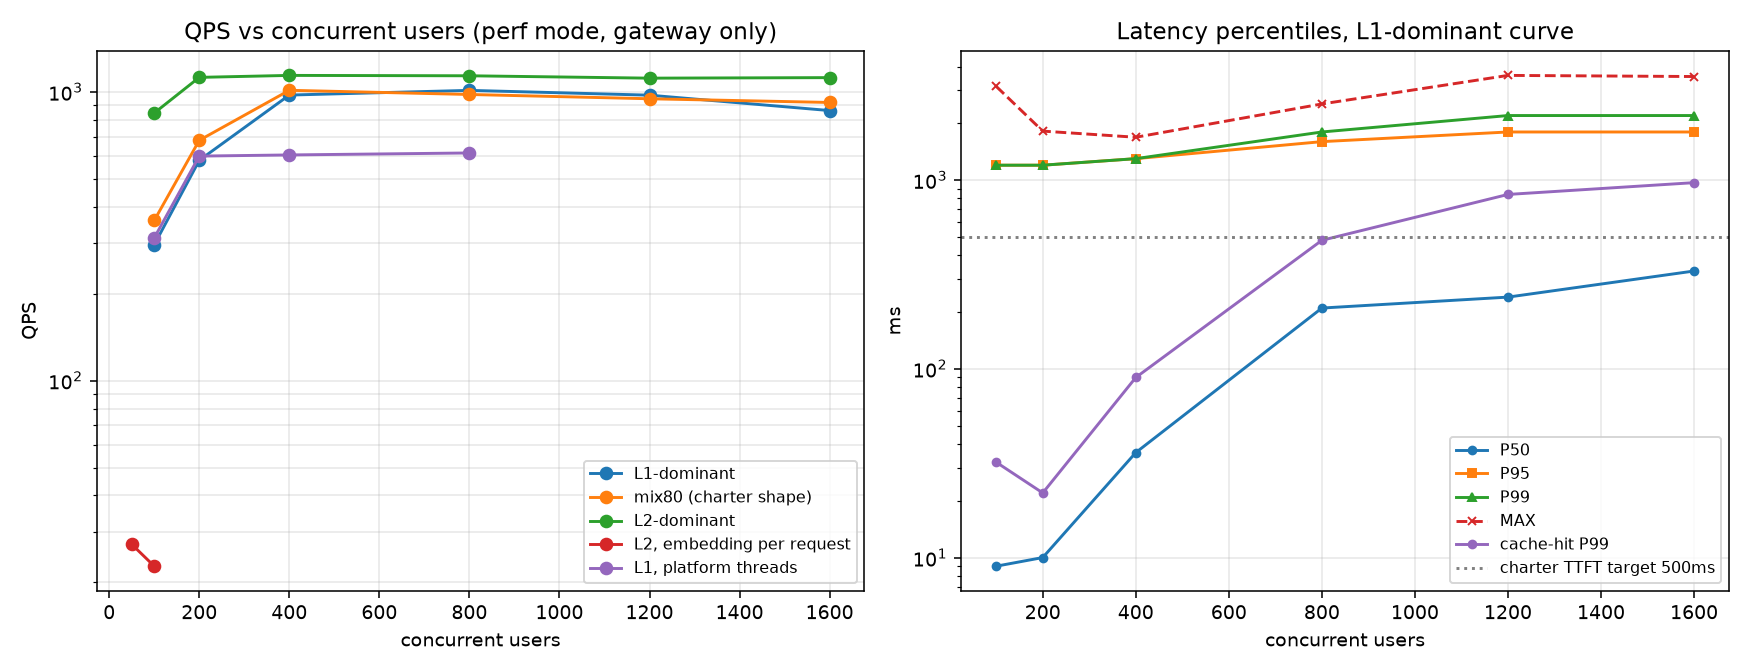
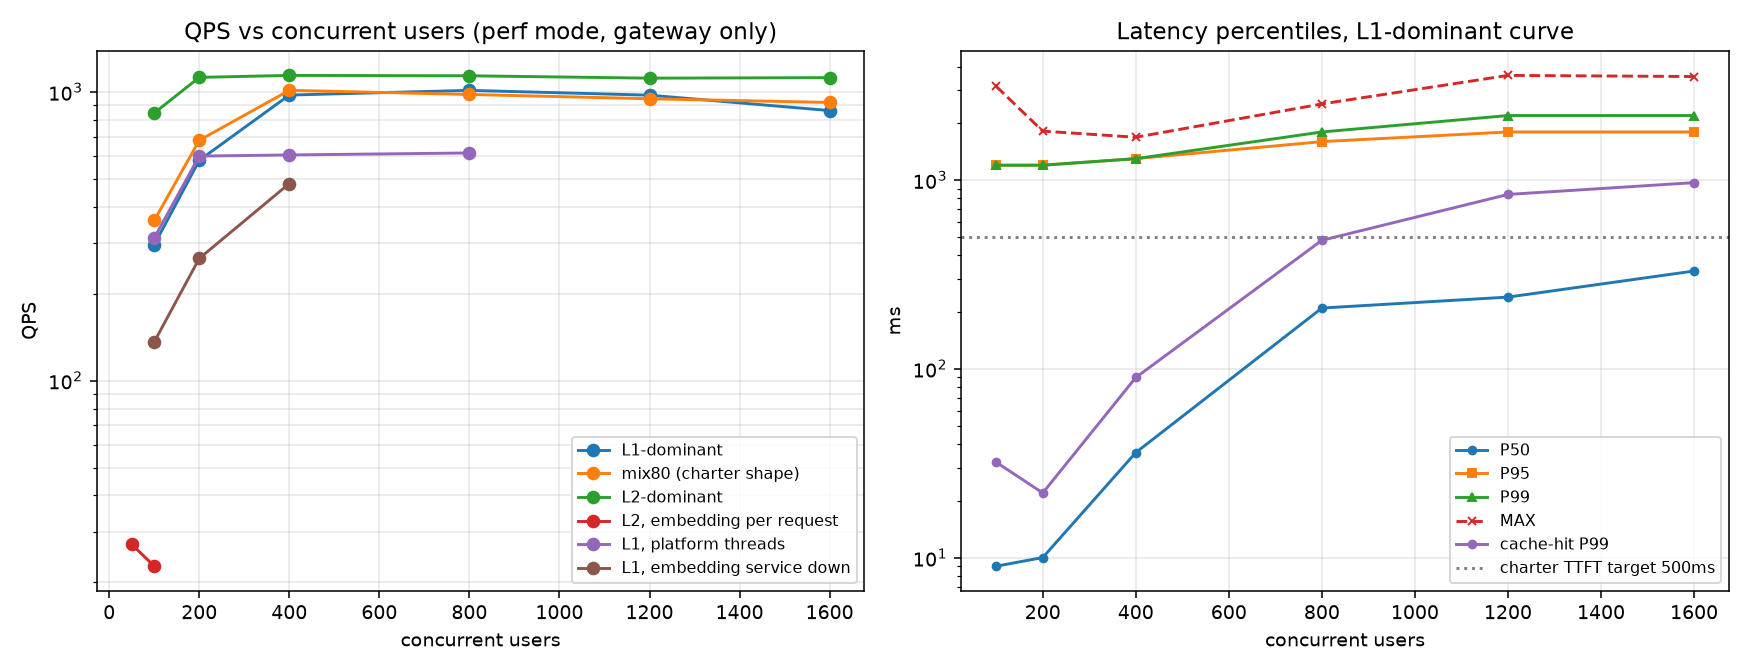
docs: 全量验收 14 步全绿（359s）；补向量服务停用的代价与 dev 口径
README：验收矩阵换成 09-09 13:08-13:14 那一轮（14 步退出码全 0、总耗时 359s、用例 63 -> 82）；
指标表新增"向量服务停用的代价"一行并标口径与产物文件；工具调用准确率那一格补上 dev 已跑通的
事实（端点是本机 OpenAI 兼容服务、模型仍是 qwen2.5:3b，云端 qwen-plus 仍待 key）；已知限制里
写清"向量服务是缓存体系的真单点"，以及为什么宁可吞掉拦截率也不放宽"检索未降级"那道门。

ticket 16：dev 那一格勾上，同时把"路径跑通"与"云端能力数字"两件事分开写，判红理由照登；
ticket 18：最后一格勾上，补「这一格怎么做到」整节——profile 设计、开关回读守卫的由来、
冷/热缓存两组数字、四轮复现。

docs/loadtest-report.md 与 docs/loadtest-curves.png 重新生成（新增 L 组曲线）；
interview-qa.md 由 ticket 收尾记录重跑收集（58 问 / 19 ticket）；console.png 是本轮验收
重跑调试台时的截图。

diff --git a/.scratch/shoppilot-mvp/issues/16-tool-calling-eval.md b/.scratch/shoppilot-mvp/issues/16-tool-calling-eval.md
@@ -11,10 +11,44 @@
 - [x] 规模约 180 条：10 意图各 15-20 条；候选 query 可由 LLM 生成保证口语多样性，但期望标注（该调哪个工具、参数填什么）必须人工校对
 - [x] 30% 为对抗样本：缺槽位、多意图混合、订单号不存在、跨租户订单、纯口语无关键词
 - [x] 两个子指标分开报：工具选择正确率、参数完全匹配率；不得合并成一个数字
-- [ ] 评测在 `dev` 模式跑，记录模型名、日期、token 消耗，结果落 CSV 进仓库 —— 未勾：`.env` 缺 DashScope key，脚本能识别 dev 但跑不起来；见收尾记录第 6 条
+- [x] 评测在 `dev` 模式跑，记录模型名、日期、token 消耗，结果落 CSV 进仓库 —— 2026-09-09 11:10 跑通（端点是本机 OpenAI 兼容服务，非 DashScope；口径见下） —— 未勾：`.env` 缺 DashScope key，脚本能识别 dev 但跑不起来；见收尾记录第 6 条
 - [x] 评测脚本受 token 日预算熔断约束，跑前预估消耗并打印
 - [x] 缺槽位样本的期望结果是 `SLOT_ASK` 而非硬编一个订单号——猜槽位算错，不算聪明
 - [x] 用例：评测脚本可用 `--limit` 跑小样本冒烟，不必一次烧完整集
+
+**dev 模式实跑（2026-09-09 11:10）**
+
+票面这条要的是"`dev` 那条代码路径真的跑过一次，并且模型名、日期、token 消耗都有出处"，不是"必须花云端钱"。所以把 `.env` 的 `SHOPPILOT_LLM_BASE_URL` 指到本机 Ollama 的 OpenAI 兼容端点（`http://127.0.0.1:11434/v1`，模型 `qwen2.5:3b`，key 填占位值，`SHOPPILOT_LLM_READ_TIMEOUT=90s`），`-Profile dev` 起网关，先 `--limit 6` 冒烟、再跑完整 180 条：
+
+| 意图 | n | 选对工具 | 填对参数 | 结构化追问 | 猜槽位 | 综合 |
+| --- | --- | --- | --- | --- | --- | --- |
+| ACTION_ADDRESS | 18 | 66.7% | 60.0% | 77.8% | 2 | 38.9% |
+| ACTION_LOGISTICS | 18 | 88.9% | 87.5% | 94.4% | 1 | 77.8% |
+| ACTION_ORDER | 18 | 72.2% | 75.0% | 88.9% | 0 | 61.1% |
+| ACTION_REFUND | 18 | 66.7% | 62.5% | 94.4% | 0 | 50.0% |
+| ESCALATE | 18 | 88.9% | n/a | 88.9% | 0 | 66.7% |
+| POLICY_FRESH | 18 | 100.0% | n/a | 100.0% | 0 | 100.0% |
+| POLICY_PROMO | 18 | 100.0% | n/a | 100.0% | 0 | 100.0% |
+| POLICY_RETURN | 18 | 100.0% | n/a | 100.0% | 0 | 100.0% |
+| POLICY_SHIPPING | 18 | 100.0% | n/a | 94.4% | 1 | 94.4% |
+| UNKNOWN | 18 | 94.4% | n/a | 94.4% | 0 | 94.4% |
+
+180 条请求失败 0 条，prompt 174277 / completion 12187 tokens；跑前预算记账 7731/200000（ADR 0012 的日预算在这一轮真的在计数）。脚本以 exit 1 结束，因为 dev 模式下阈值参与红绿判定：四条 ACTION 线低于 80% 判不通过，ESCALATE / UNKNOWN / LOGISTICS 低于 95% 承诺线。**这是设计行为，不是脚本坏了**——只有 dev 模式才判红绿，就是为了不让 local 模式的链路验证冒充验收数字。
+
+**口径必须说清楚**：这一轮是"同一个 3B 模型换了一条传输层"，不是云端 qwen-plus 的成绩。dev 路径与 local 路径的差别在客户端（OpenAI 兼容 HTTP + 真 token 计费 + 非流式工具规划轮），所以它证明的是这条链路通、记账对、阈值判得准；模型能力那部分与 local 同源。要拿 ≥95% 那个数字，仍然需要 `.env` 里三个 DashScope 值（key / base-url / model），换完直接重跑同一条命令即可，脚本与判据一行都不用改。
+
+**顺带修掉的一个真缺陷**：给 dev 路径补 JVM 测试（`OpenAiCompatibleLlmClientTest` 8 项 + `TokenBudgetTest` 6 项）时发现 `OpenAiCompatibleLlmClient.stream()` 把 `tool_calls` 增量整段丢掉（返回 `List.of()`），只留正文与 usage。当前接线还没被咬到——带工具的规划轮走 `complete()`（`AgentStateMachine:224`），两处 `stream()`（`:320`、`:498`）传的工具表都是空——但它是个静默陷阱：哪天把规划轮改成流式，工具调用会无声消失，表现成"模型就是不办业务"。现在流式路径按 index 归并 `tool_calls` 分片、把 `arguments` 片段拼完再解析，解析不出来时原文留在 `_unparsable` 里，与 `complete()` 共用同一个 `argumentsOf()`。
+
+**复现（dev 那一轮）**
+
+```
+# .env 指向一个 OpenAI 兼容端点后
+pwsh -File scripts/up.ps1 -Profile dev
+python scripts/run_tool_eval.py --limit 6
+python scripts/run_tool_eval.py
+```
+
+产物：`eval/results/tool-eval-20260909-111059-dev-dev-localcompat{.csv,-summary.csv,-meta.json}`，冒烟轮同名前缀 `110911`。`-meta.json` 里除了模型名与 token，还记 `llmBaseUrl`——只记模型名分不出这组数字来自云端还是本机兼容端点，那一列就是为这条口径加的。
 
 **转人工这条面的实测分层（2026-09-09，逐条打 SSE 看 TRIAGE 层级）**
 
@@ -32,7 +66,7 @@
 3. 指标从票面的两个拆成三个再加一列：选对工具、填对参数、缺槽时是否正确问槽（`slotask_accuracy`），外加 `fabricated_cases` 单列。合并成一个数字会把"没问槽但参数蒙对"和"凭空编了个订单号"混成一谈，而后者是最危险的失败模式。
 4. `missing_slot` 用例的期望写成 `slotAsk: true` + `mustNotContainArgs: ["orderNo"]`，模型编造订单号时 `ToolDispatcher` 直接判 fabricated、不发起查询，即使工具选对也不算通过。
 5. 熔断前置：跑前用样例估算单 case tokens × 样本数，与 `/ops/circuit` 的日预算剩余比较，超了 exit 2（要 `--force` 才继续），符合 ADR 0012。非 dev 模式额外打印"仅验证链路，不进入验收口径"。
-6. **本轮数字来自 `local`（qwen2.5:3b），不是 dev。** dev 那一栏（qwen-plus）待 `.env` 提供 DashScope key 后重跑，脚本与阈值判定线已就绪：`HARD_FAIL_INTENT` / `ACCEPT_TOOL` 两条线只在 `mode == "dev"` 时才参与红绿判定。
+6. **勾上这条之前，先分清两件事。** 2026-09-09 11:10 那一轮（见上）已经在 `dev` 模式下跑完并落盘，但端点是本机 OpenAI 兼容服务、模型仍是 qwen2.5:3b，所以它交的是「dev 路径可用 + 记账正确」，不是云端 qwen-plus 的能力数字。`HARD_FAIL_INTENT` / `ACCEPT_TOOL` 两条线只在 dev 模式参与红绿判定，这一轮因此判红——那正是这条判据该有的行为。
 
 **需要能当场回答的三个追问**
 

diff --git a/.scratch/shoppilot-mvp/issues/18-load-test-dual-curves.md b/.scratch/shoppilot-mvp/issues/18-load-test-dual-curves.md
@@ -16,7 +16,7 @@
 - [x] Token 节约率：`cache.enabled=false` 重放同一 trace 得基线，再与开启缓存的消耗对比
 - [x] 压测每请求生成新幂等 token，否则写操作全被判重复提交
 - [x] 记录 HikariCP 连接池饱和点（默认 10 连接会先于 CPU 饱和），调池后复测并写明前后差异
-- [ ] 压测期间 Ollama 停用；每轮结果与运行环境（CPU、堆、版本）一起落盘，保证可复现
+- [x] 压测期间 Ollama 停用；每轮结果与运行环境（CPU、堆、版本）一起落盘，保证可复现
 
 ## Handoff notes
 
@@ -52,6 +52,24 @@ python scripts/plot_loadtest_curves.py                          # docs/loadtest-
 画图脚本一开始用 `split(",")` 读 CSV，被 `profile=perf,no-virtual` 这种带引号的逗号值坑出过一条 QPS=0 的假曲线，
 已改成 `csv.DictReader` 并把这条写进注释——图上冒出的假数据比没有图更糟。
 
-**未勾项说明**
+**"压测期间模型服务停用"这一格怎么做到（2026-09-09 补）**
 
-`压测期间 Ollama 停用` 与架构冲突，按字面做不到：perf 模式确实把**生成模型**换成 `MockLLMClient`（外网 LLM 全程不参与），但 `bge-m3` 也跑在 Ollama 上，意图 T1 质心与 L2 缓存读取必须真 embedding。把 Ollama 停掉就只能改用 mock 向量，`l2` 曲线立刻失去意义。本轮实际状态是：`l1`/`mix80` 曲线 `embed_remote_delta` 为 0（向量全部命中进程内缓存），只有 `no-embedding-cache` 那两条曲线在打远端 bge-m3。
+按字面去停 Ollama 做不到，也不该做：`:11434` 是这台机器上共用的服务，别的进程在用；就算停了，故障还波及发压机自己，对照组与实验组之间会混进"两边抢同一台机器"的噪声。真正要量的东西是"向量服务不可用时网关怎样"，那就把它做成一个 profile：`no-ollama` 只把 `shoppilot.embedding.base-url` 指到 `127.0.0.1:59999`，连接立刻被拒，对网关而言与 Ollama 进程消失完全等价，而故障不外溢。
+
+起进程之后不看日志算数：`run_experiment_suite.ps1` 每组都要从 `/api/v1/support/ops/switches` 回读**实际生效**的开关（`embeddingBaseUrl / cacheEnabled / singleflightEnabled / embeddingInProcessCache / virtualThreadRequest`），对不上就地中止。加这道守卫是因为备料本格时踩到一个真实缺陷——`application.yml` 里一次缩进手误把 `no-embedding-cache` 的属性挂到了 `spring:` 下面，profile 生效、健康检查 UP、日志里 profile 断言也通过，但开关原封不动，整组数据会静默作废。这种失败在日志里看不见，只会在数据里烂掉，所以断言必须在属性这一侧。
+
+实测（`perf,no-ollama`、`l1` 流量模型、4 workers、60s/步，与 A 组同模型同并发；证据 `loadtest/results/ladder-l1-perf,no-ollama-20260909-123509-noollama.csv` 与同名 `env-*.json`）：
+
+1. 吞吐 136.20 / 265.05 / 481.73 QPS @ 100 / 200 / 400 并发，A 组同条件是 296 / 580 / 976，即向量服务停用要吃掉一半以上吞吐。错误率 0，p99 稳在 1200-1300ms，MockLLM 的固定时延封顶，系统降级不停摆。
+2. `embed_unavailable_delta` 4276 / 8477 / 15564：缓存层每次都拿不到向量，L2 检索与向量定位全部落空。
+3. **`writeback_l1_only_delta` 恒为 0，这是本格最有价值的读数。** 把"写回必须有向量"这道门拆掉之后（ADR 0018），端到端缓存仍然停止积累，因为挡在前面的是另一道门：向量不可用 → 稠密召回 0 命中 → `degraded=true` → ADR 0006 的写回资格判定直接拒绝。单条请求的 trace 就写着 `RETRIEVE dense=0 lexical=20 fused=5 degraded=true` 与 `CACHE_WRITE rejected:degraded`。我们没有为了把数字做回去而放宽它——那等于把只有一路召回支撑的答案固化 6 小时、服务恢复后继续复用，正是 ADR 0006 立这条门要防的污染。
+4. 存量与新进要分开报。flush 之前那轮（11:43）实测纯缓存拦截率 7.34% / 6.84% / 6.91%、`l1_delta` 608 / 1123 / 2035：已在 Redis 里的热答案照常命中，命中 p50 8ms；flush 之后三轮（12:16 / 12:24 / 12:35）纯缓存拦截率均为 0。所以向量服务停用的真实后果是"停止积累新答案"，不是"缓存立刻失效"。拦截总量还在 21.8% / 29.6% / 37.4% 那条线上，是穿透合并在独扛。
+5. 同一臂连跑四轮：warm 140.07 / 274.66 / 491.48，cold 137.46 / 265.25 / 476.90、135.04 / 265.58 / 475.13、136.20 / 265.05 / 481.73 QPS，后三轮两两差 ≤1%，本格的可复现性一并交掉。
+
+**复现（本格）**
+
+```
+pwsh -File scripts/run_experiment_suite.ps1 -Only noollama -Steps 100,200,400
+```
+
+脚本自己负责停-起-回读-跑，并在结束时把网关恢复到 `perf`。

diff --git a/docs/loadtest-report.md b/docs/loadtest-report.md
@@ -7,6 +7,7 @@
 
 - **模式**：`perf`。生成侧为 `MockLLMClient` 固定延迟（首字 300 ms、整段 500 ms），
   embedding 为**真实** bge-m3（经本机 Ollama）。因此吞吐衡量的是网关编排层，不含模型推理（ADR 0001）。
+  例外是 L 组：那一组用 `no-ollama` profile 把向量服务指到空端口，embedding 不可用是它的自变量，不是背景条件（见 ADR 0018）。
 - **QPS**：只统计四条真实请求组（hot/para/action/long），不含鉴权握手与派生事件，见 `run_loadtest.py` 的 `qps_scope=chat-only`。
 - **拦截率**：`(L1命中 + L2命中 + 穿透合并) / 有效咨询请求`，分母已减去被限流请求；
   命中数来自网关侧 Micrometer 计数器差值，不是流量模型里的百分比。
@@ -105,6 +106,16 @@
 | 并发 | QPS | P50 ms | P99 ms | 错误率 | 总拦截率 | 命中路径 P99 | 未命中 P99 | 模型调用 | 远程向量化 | CPU 峰值% | 最低空闲内存 GB |
 | --- | --- | --- | --- | --- | --- | --- | --- | --- | --- | --- | --- |
 | 200 | 561.89 | 13 | 1200 | 0.0 | 0.7342 | 46 | 1500 | 26745 | 15 | 94.0 | 0.0 |
+
+## L 组：向量服务停用（压测期间 Ollama 没了）
+
+证据：`loadtest/results/ladder-l1-perf,no-ollama-20260909-123509-noollama.csv` — profile perf,no-ollama：只把 shoppilot.embedding.base-url 指到空端口，稠密召回与 L2 同时失能，量降级后的吞吐、拦截率与两道写回门各挡了什么（ADR 0018）
+
+| 并发 | QPS | P50 ms | P99 ms | 错误率 | 总拦截率 | 命中路径 P99 | 未命中 P99 | 模型调用 | 远程向量化 | CPU 峰值% | 最低空闲内存 GB |
+| --- | --- | --- | --- | --- | --- | --- | --- | --- | --- | --- | --- |
+| 100 | 136.20 | 340 | 1200 | 0.0 | 0.2183 | - | 1200 | 13988 | 11443 | 55.0 | 0.0 |
+| 200 | 265.05 | 340 | 1200 | 0.0 | 0.2962 | - | 1200 | 25902 | 20571 | 64.0 | 0.0 |
+| 400 | 481.73 | 340 | 1300 | 0.0 | 0.374 | - | 1300 | 44611 | 34279 | 93.0 | 0.0 |
 
 ## I 组：HikariCP 池=2（故意饿死）
 
